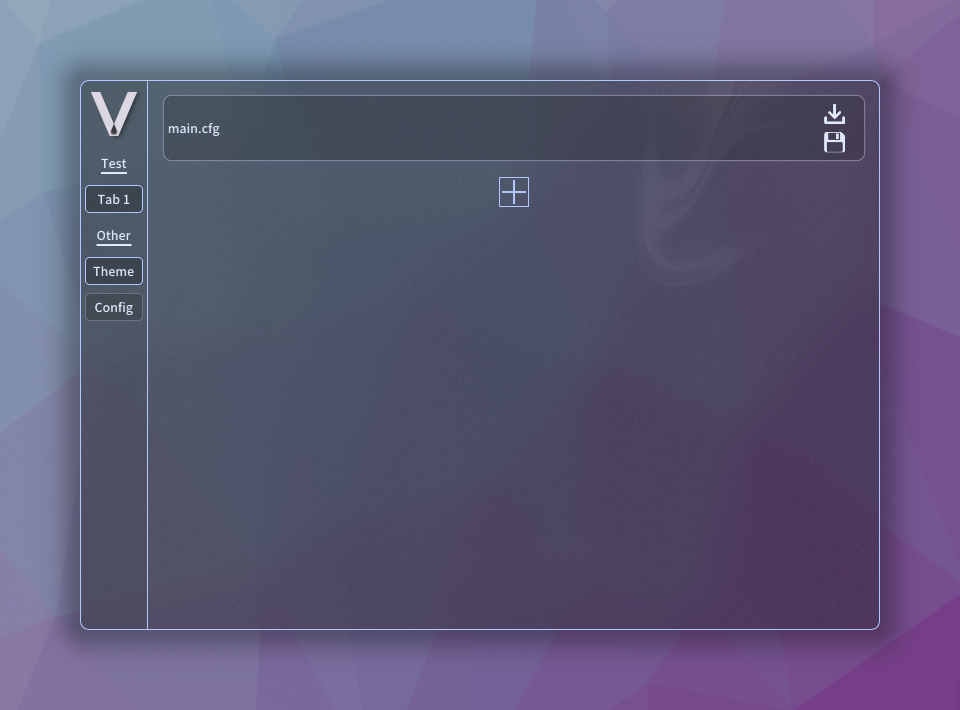
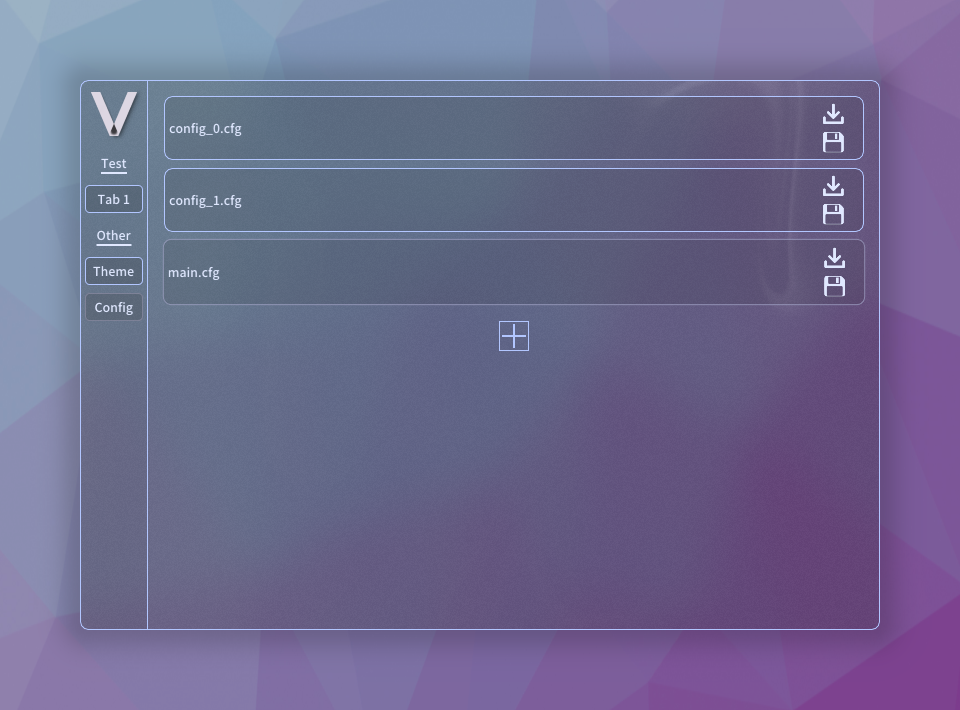
Bug Fixes

diff --git a/Vane/Vane/Vane.h b/Vane/Vane/Vane.h
@@ -25,6 +25,33 @@ enum ItemIds
 
 class Vane {
 public:
+	static bool Init(IDXGISwapChain* swapchain, const XyVec2 menuSize = XyVec2(800.f, 550.f));
+	static void Destroy();
+
+	static bool Render();
+	static std::optional<long> WndProc(uint32_t msg, uint64_t wParam, int64_t lParam);
+
+	// Add Widgets
+	static TabNormal* AddTab(const std::string& text);
+	static void AddLabel(const std::string& text);
+	static void AddConfigTab(const std::string& text);
+	static void AddDefaultThemeTab();
+
+	static TabNormal* LastTab();
+
+public:
+	inline static bool IsOpen = true;
+	inline static float Animation = 0.f;
+
+	inline static bool Initialized = false;
+	inline static bool RenderingStarted = false;
+
+	inline static float x = -1.f;
+	inline static float y = -1.f;
+	inline static float w = 0.f;
+	inline static float h = 0.f;
+
+public:
 	inline static _Xyphra renderer;
 
 	class Style {
@@ -49,7 +76,7 @@ public:
 		inline static float AnimationSpeed   = 8.f;
 
 		// Colors						     
-		inline static XyColor Background     = XyColor(0.1f, 0.1f, 0.1f, 0.65f);
+		inline static XyColor Background     = XyColor(0.1f, 0.1f, 0.1f, 0.35f);
 		inline static XyColor Text           = XyColor(0xE0, 0xE8, 0xFF);
 		inline static XyColor Icon           = XyColor(0xE0, 0xE8, 0xFF);
 		inline static XyColor Accent         = XyColor(0xB2, 0xC6, 0xFF);
@@ -290,48 +317,24 @@ public:
 	};
 
 public:
-	static bool Init(IDXGISwapChain* swapchain, const XyVec2 menuSize = XyVec2(800.f, 550.f));
-	static void Destroy();
-
-	static bool Render();
-	static std::optional<long> WndProc(uint32_t msg, uint64_t wParam, int64_t lParam);
-
-	// Add Widgets
-	static TabNormal* AddTab(const std::string& text);
-	static void AddLabel(const std::string& text);
-	static void AddConfigTab(const std::string& text);
-	static void AddDefaultThemeTab();
-
-	static TabNormal* LastTab();
-
-public:
-	inline static bool open = true;
-	inline static float animation = 0.f;
-
-	inline static bool Initialized = false;
-	inline static bool RenderingStarted = false;
-
-	inline static float x = -1.f;
-	inline static float y = -1.f;
-	inline static float w = 0.f;
-	inline static float h = 0.f;
-
-	inline static XyVector<Tab*> Tabs;
 	inline static int SelectedTab = -1;
 
 	inline static constexpr float MinAlpha = 1.f / 255.f;
 
-public:
 	// Overlays
 	inline static int OpenedOverlay = -1;
 	inline static XyVector<Overlay*> Overlays;
 
 private:
+	inline static XyVector<Tab*> Tabs;
+
 	inline static int Hovered = -1;
 	inline static int Selected = -1;
 
 	inline static bool Moving = false;
 	inline static XyVec2 MovingOff;
+	friend class ChildTab;
+	friend class Sidebar;
 };
 
 

diff --git a/Vane/Vane/Vane.cpp b/Vane/Vane/Vane.cpp
@@ -163,7 +163,7 @@ bool Vane::Render()
 		}
 	}
 
-	animation = Util::Lerp(animation, open ? 1.f : 0.f, Style::AnimationSpeed);
+	Animation = Util::Lerp(Animation, IsOpen ? 1.f : 0.f, Style::AnimationSpeed);
 
 	{
 		static XyVec2 old_size = { 0.f, 0.f };
@@ -213,7 +213,7 @@ bool Vane::Render()
 	x = roundf(x);
 	y = roundf(y);
 
-	if (animation < MinAlpha)
+	if (Animation < MinAlpha)
 		goto skipRender;
 
 	// Background
@@ -286,13 +286,13 @@ std::optional<long> Vane::WndProc(uint32_t msg, uint64_t wParam, int64_t lParam)
 	{
 		if (wParam == VK_INSERT)
 		{
-			open = !open;
+			IsOpen = !IsOpen;
 			// Enable/Disable Mouse here
 			return S_OK;
 		}
 	}
 
-	if (!open)
+	if (!IsOpen)
 		return {};
 
 	if (msg == WM_MOUSEWHEEL)
@@ -358,7 +358,7 @@ std::optional<long> Vane::WndProc(uint32_t msg, uint64_t wParam, int64_t lParam)
 	{
 		if (wParam == VK_ESCAPE)
 		{
-			open = false;
+			IsOpen = false;
 			// Disable Mouse here
 			return S_OK;
 		}
@@ -402,12 +402,12 @@ XyColor Vane::Util::ConvColorEx(const XyColor& col, float animation)
 
 XyColor Vane::Util::ConvColor(const XyColor& col)
 {
-	return ConvColorEx(col, animation);
+	return ConvColorEx(col, Animation);
 }
 
 XyColor Vane::Util::ConvColor(const XyColor& col, float _animation)
 {
-	return ConvColorEx(col, animation * _animation);
+	return ConvColorEx(col, Animation * _animation);
 }
 
 XyColor Vane::Util::DisableColor(const XyColor& col, float t)

diff --git a/Vane/Vane/Contents/Widgets/Slider/Slider.cpp b/Vane/Vane/Contents/Widgets/Slider/Slider.cpp
@@ -22,14 +22,14 @@ void Slider::Draw(const float x, const float y, const float w, const float alpha
 		return;
 
 	// Text
-	char buffer[96];  // Large enough for most labels and values
+	float end = Vane::renderer.AddText(XyVec2(x, y), 
+		Vane::Util::DisableColor(Vane::Util::ConvColor(Vane::Style::Text, alpha), animation_disabled), (strLabel + ": ").c_str());
 
-	int length = std::snprintf(buffer, sizeof(buffer), "%s: %s", strLabel.c_str(), strFormat.c_str());
+	char buffer[30] = { 0 }; // Should be enough
+	std::snprintf(buffer, sizeof(buffer), strFormat.c_str(), *pValue);
 
-	std::snprintf(buffer + length - strFormat.length(), sizeof(buffer) - length + strFormat.length(), strFormat.c_str(), *pValue);
-
-	Vane::renderer.AddText(XyVec2(x, y), 
-		Vane::Util::DisableColor(Vane::Util::ConvColor(Vane::Style::Text, alpha), animation_disabled), buffer);
+	Vane::renderer.AddText(XyVec2(end, y),
+		Vane::Util::DisableColor(Vane::Util::ConvColor(Vane::Style::Accent, alpha), animation_disabled), buffer);
 
 	// Line
 	const float circle_width = default_height - Vane::Style::TextSize - 4.f;

diff --git a/Vane/main.cpp b/Vane/main.cpp
@@ -34,7 +34,7 @@ LRESULT CALLBACK WndProc(HWND hWnd, uint32_t msg, uint64_t wParam, int64_t lPara
     }
     else if (msg == WM_MOUSEMOVE)
     {
-        return Vane::open ? S_OK : DefWindowProc(hWnd, msg, wParam, lParam);
+        return Vane::IsOpen ? S_OK : DefWindowProc(hWnd, msg, wParam, lParam);
     }
     else if (msg == WM_SIZE && wParam != SIZE_MINIMIZED && render_started)
     {
@@ -231,7 +231,7 @@ int WINAPI main()
         }
 
         // Cursor
-        if (Vane::open && Vane::Cursor::actual.load() != Vane::Cursor::arrow)
+        if (Vane::IsOpen && Vane::Cursor::actual.load() != Vane::Cursor::arrow)
         {
             Vane::Cursor::Set();
         }

diff --git a/Vane/Vane/Config/ConfigDrawable.cpp b/Vane/Vane/Config/ConfigDrawable.cpp
@@ -62,7 +62,7 @@ void ConfigDrawable::Render(float x, float y, float w, float alpha, int id, int*
 	if (last_string_width < 0.f)
 		last_string_width = 0.f;
 
-	if (blinking_animation * Vane::animation > Vane::MinAlpha)
+	if (blinking_animation * Vane::Animation > Vane::MinAlpha)
 	{
 		Vane::renderer.AddRectFilled(XyVec2(out_pos, lastY + (lastH - Vane::Style::TextSize) / 2.f),
 			XyVec2(out_pos + 2.f, lastY + (lastH + Vane::Style::TextSize) / 2.f), Vane::Util::ConvColor(Vane::Style::Accent, blinking_animation * alpha));

diff --git a/Vane/Vane/Background.cpp b/Vane/Vane/Background.cpp
@@ -235,7 +235,7 @@ void Vane::Background::Render()
     renderer.g_pd3dDeviceContext->PSSetSamplers(0, 1, &m_pSamplerState);
 
     ConstantBuffer->iResolution = renderer.data.display_size;
-    ConstantBuffer->Animation = animation;
+    ConstantBuffer->Animation = Animation;
     ConstantBuffer->iTime += renderer.data.delta_time;
     ConstantBuffer->MenuPos = XyVec4(x, y, w, h);
     ConstantBuffer->Rounding = Style::Rounding;

diff --git a/Vane/Vane/Contents/Tab.cpp b/Vane/Vane/Contents/Tab.cpp
@@ -114,7 +114,7 @@ void TabNormal::Render(float x, float y, float w, int id, int* hovered, int* sel
 
 	for (int i = 0; i < ChildTabs.Size; i++)
 	{
-		xPos += ChildTabs[i]->Render(xPos, Vane::y, animation * Vane::animation, i, hovered, &SelectedChild);
+		xPos += ChildTabs[i]->Render(xPos, Vane::y, animation * Vane::Animation, i, hovered, &SelectedChild);
 	}
 }
 
